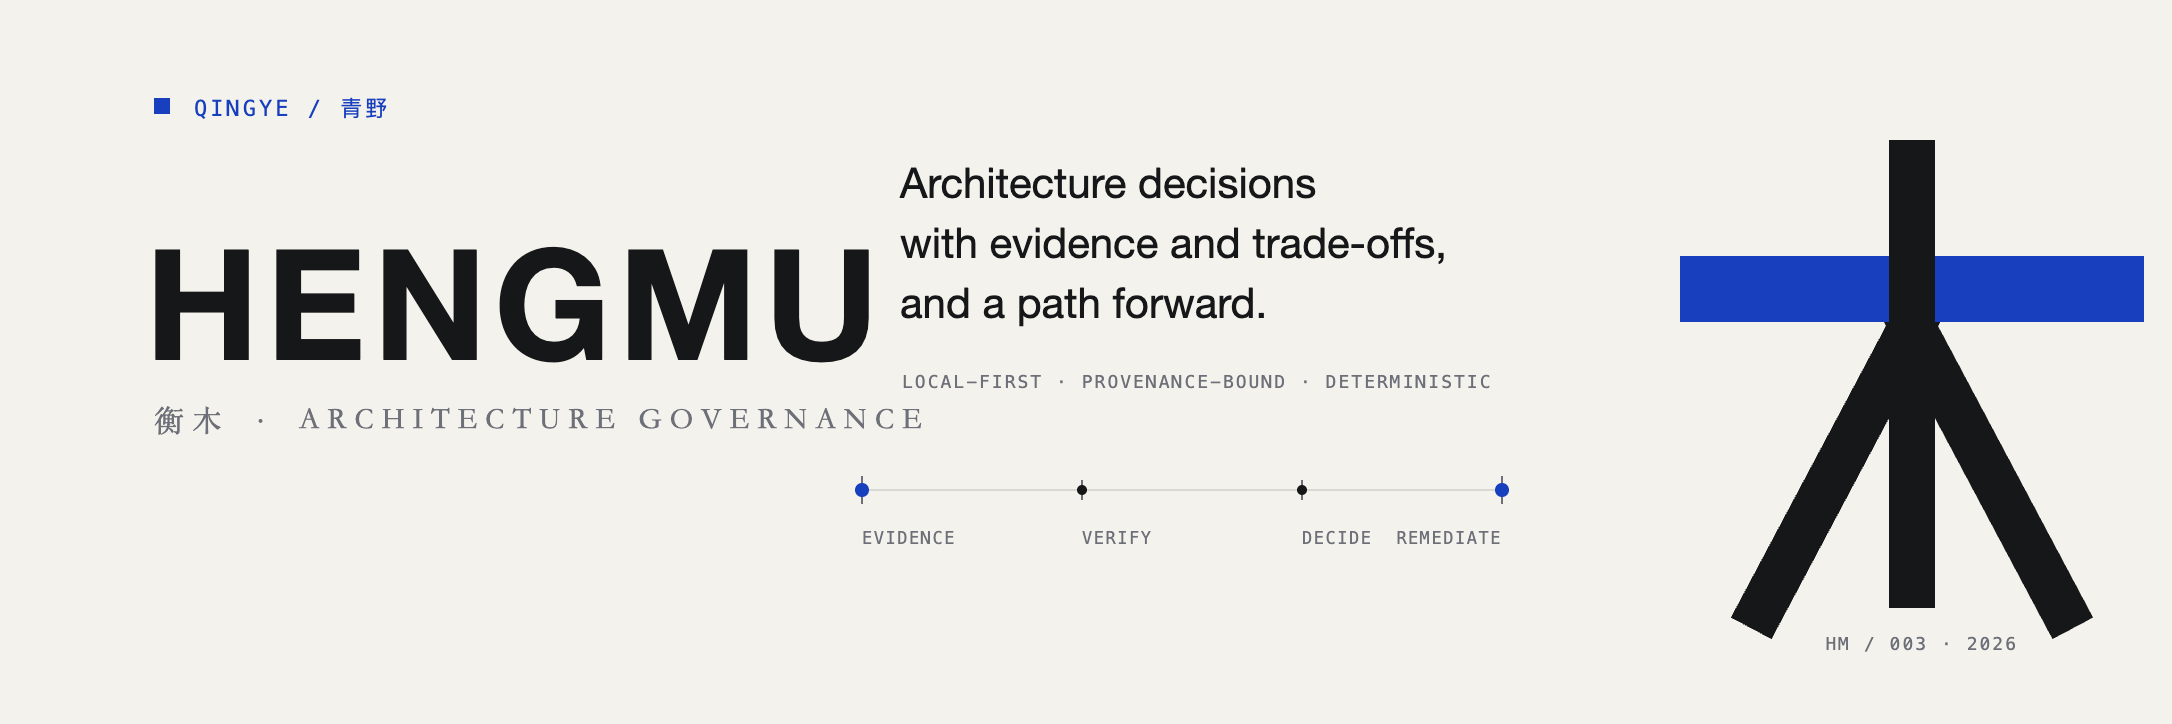
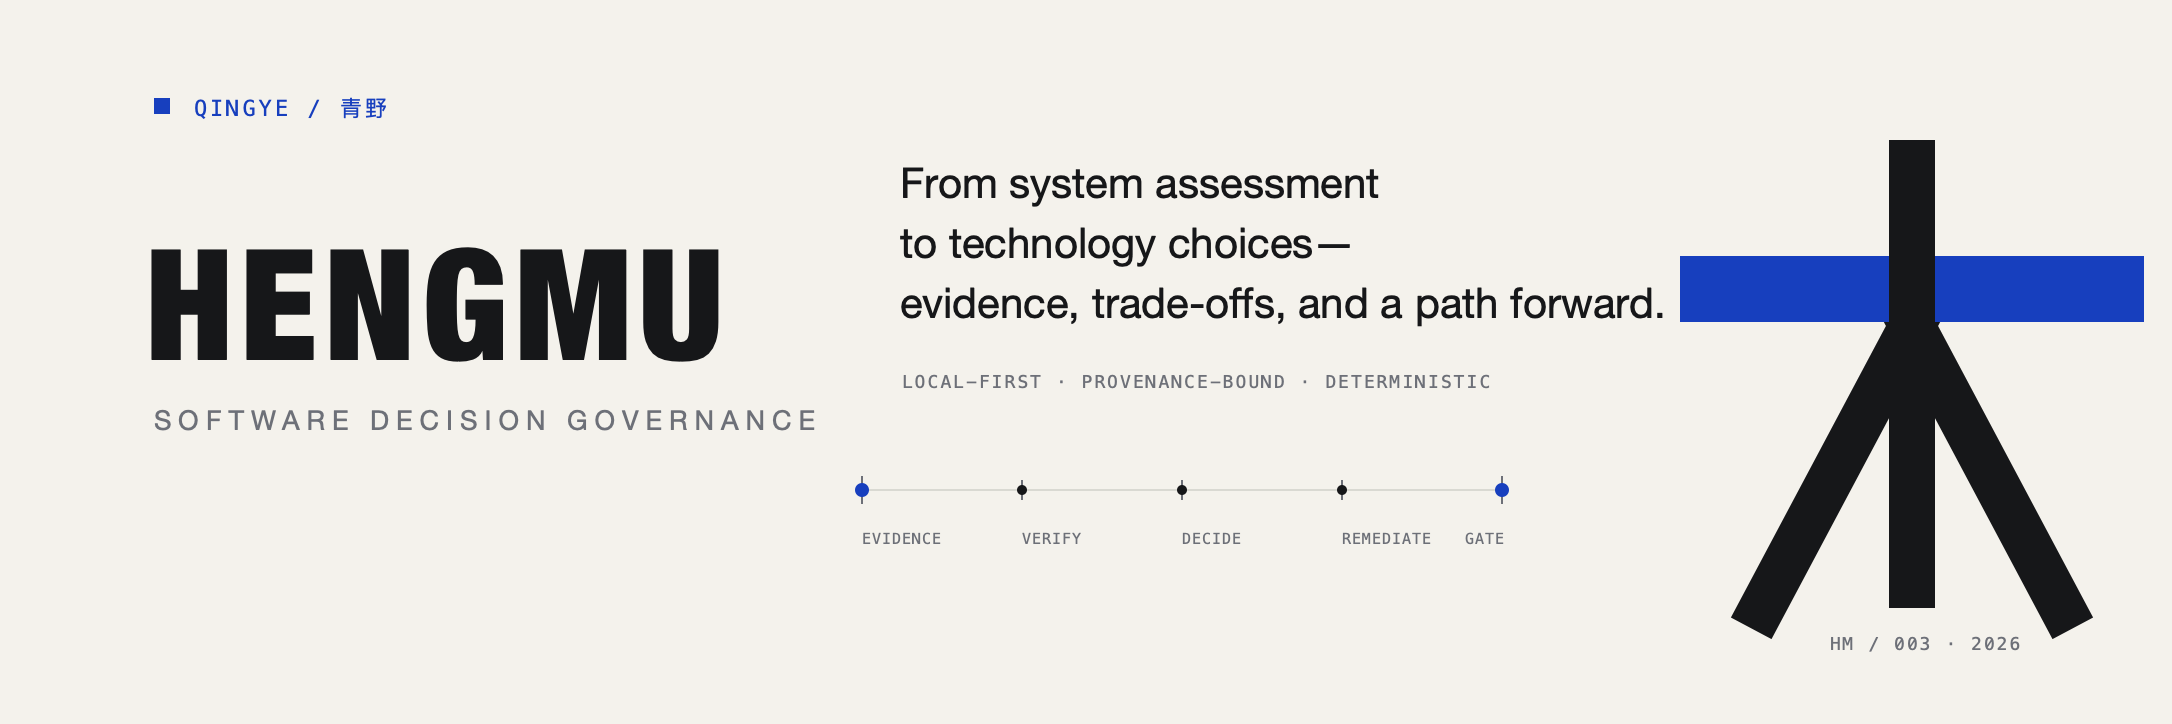
docs: clarify Hengmu engineering decision scope

diff --git a/README.md b/README.md
@@ -2,7 +2,7 @@
   <img
     src="docs/assets/brand/en/hengmu-banner.png"
     width="100%"
-    alt="Hengmu — evidence-backed architecture decisions, a Qingye open-source project"
+    alt="Hengmu — evidence-bound software engineering decisions, a Qingye open-source project"
   >
 </p>
 
@@ -34,11 +34,18 @@
 
 ---
 
-Hengmu is a local-first Codex plugin for architecture work that continues
-after the first review. It audits what exists, treats missing capability as a
-real finding, verifies every claim against evidence, compares viable
-solutions, plans remediation, and applies deterministic policy when a project
-needs a gate.
+Hengmu is a local-first, evidence-bound software engineering decision system.
+It closes the loop from system assessment and independent finding verification
+to technical solution decisions, remediation planning, and deterministic
+quality gates.
+
+Architecture is the system view that connects these concerns, not the only
+thing Hengmu evaluates or decides. Its current assessment rules cover
+performance efficiency, reliability, security and privacy boundaries, data and
+API contracts, observability, testing, deployment, technical debt, and
+proportionality. Its Solution Advisor also supports target architecture,
+technology selection, pattern comparison, and greenfield or remediation
+trade-offs.
 
 It works at two levels:
 
@@ -46,6 +53,13 @@ It works at two levels:
   flows, rules, and review history;
 - a portfolio of repositories, looking for duplication, stack sprawl, shared
   capability, ownership conflicts, data flows, and hidden coupling.
+
+| Capability | What Hengmu does |
+| --- | --- |
+| System assessment | Reviews structure and engineering qualities, including evidence-backed performance budgets and runtime behavior. |
+| Technical solutions | Compares keep-current and structural options across quality, cost, complexity, maturity, lock-in, migration risk, and reversibility. |
+| Specialized review | Applies dedicated lenses for AI-agent systems, mobile applications, and multi-project portfolios. |
+| Decision governance | Binds facts, evidence, provenance, authority, remediation, and deterministic policy into one auditable chain. |
 
 > [!IMPORTANT]
 > **Hengmu** is the public project name. The installable plugin ID, repository
@@ -56,8 +70,8 @@ It works at two levels:
 
 ## Why Hengmu
 
-Most architecture review tools stop too early: they produce observations.
-Hengmu is designed around a longer, evidence-bound chain.
+Most code and architecture reviews stop too early: they produce observations.
+Hengmu is designed around a longer, evidence-bound engineering decision chain.
 
 | Typical review failure | Hengmu's response |
 | --- | --- |

diff --git a/README.zh-CN.md b/README.zh-CN.md
@@ -2,7 +2,7 @@
   <img
     src="docs/assets/brand/zh-CN/hengmu-banner.png"
     width="100%"
-    alt="衡木——让每一个架构判断都有证据、有权衡、有去路；青野开源项目"
+    alt="衡木——证据化的软件工程决策系统；青野开源项目"
   >
 </p>
 
@@ -34,15 +34,26 @@
 
 ---
 
-衡木是一个本地优先的 Codex 架构治理插件。它不会在第一次审核之后就停止：
-它审计已经存在的实现，把缺失能力视为真实问题，用证据核实每一项判断，
-比较可行方案，规划改造路径，并在项目需要时以确定性策略执行质量门禁。
+衡木是一个本地优先、受证据约束的软件工程决策系统。它打通了从系统审查、
+问题独立核实到技术方案决策、改造规划和确定性质量门禁的完整闭环。
+
+架构是连接这些问题的系统视角，不是衡木唯一评估或决策的对象。当前审查规则
+覆盖性能效率、可靠性、安全与隐私边界、数据与 API 契约、可观测性、测试、
+部署、技术债和设计比例性；方案决策能力还支持目标架构、技术选型、模式比较，
+以及新项目或问题改造场景下的方案权衡。
 
 它同时覆盖两个层级：
 
 - 单个仓库：读取项目自己的 Profile、约束、关键链路、规则和审核历史；
 - 项目组合：识别重复建设、技术栈扩散、共享能力、所有权冲突、
   项目间数据流和隐性耦合。
+
+| 能力 | 衡木做什么 |
+| --- | --- |
+| 系统审查 | 审查结构与工程质量，包括有运行证据支撑的性能预算和运行行为。 |
+| 技术方案 | 比较维持现状与结构性方案，权衡质量、成本、复杂度、成熟度、锁定、迁移风险和可逆性。 |
+| 专项审查 | 为 AI Agent、移动应用和多项目组合提供专门检查视角。 |
+| 决策治理 | 把事实、证据、来源、权限、改造与确定性策略绑定为可审计链路。 |
 
 > [!IMPORTANT]
 > **衡木（Hengmu）** 是公开项目名。在 `0.x` 系列中，可安装插件 ID、
@@ -52,8 +63,8 @@
 
 ## 为什么选择衡木
 
-多数架构审核工具停得太早：它们只输出观察意见。衡木围绕一条更长、
-且始终受证据约束的闭环设计。
+多数代码与架构评审停得太早：它们只输出观察意见。衡木围绕一条更长、
+且始终受证据约束的工程决策闭环设计。
 
 | 常见审核失效方式 | 衡木的应对 |
 | --- | --- |

diff --git a/CHANGELOG.md b/CHANGELOG.md
@@ -25,6 +25,10 @@ and this project uses [Semantic Versioning](https://semver.org/spec/v2.0.0.html)
   reader-first open-source structure. The plugin ID, repository slug, release
   archive prefix, schemas, CLI contracts, and historical provenance remain
   `codex-architecture-governance` for `0.x` compatibility.
+- Public positioning and plugin metadata now describe Hengmu as an
+  evidence-bound software engineering decision system spanning system
+  assessment, performance and other engineering qualities, technical solution
+  comparison, remediation, portfolio governance, and deterministic gates.
 - Git-verified archived Selection locks remain historically readable but can no
   longer create new trusted Review, Decision, Plan, coverage, or Gate chains;
   current deterministic replay is required.

diff --git a/docs/assets/brand/README.md b/docs/assets/brand/README.md
@@ -1,7 +1,11 @@
 # Hengmu visual assets
 
-Hengmu is a Qingye open-source project. This directory contains the
-repository-ready visual system used by both README editions.
+Hengmu is a Qingye open-source project for evidence-bound software engineering
+decisions: system assessment, finding verification, technical solution
+comparison, remediation planning, and deterministic governance. Architecture
+is the connecting system view, not the project's only capability. This
+directory contains the repository-ready visual system used by both README
+editions.
 
 ## Asset matrix
 
